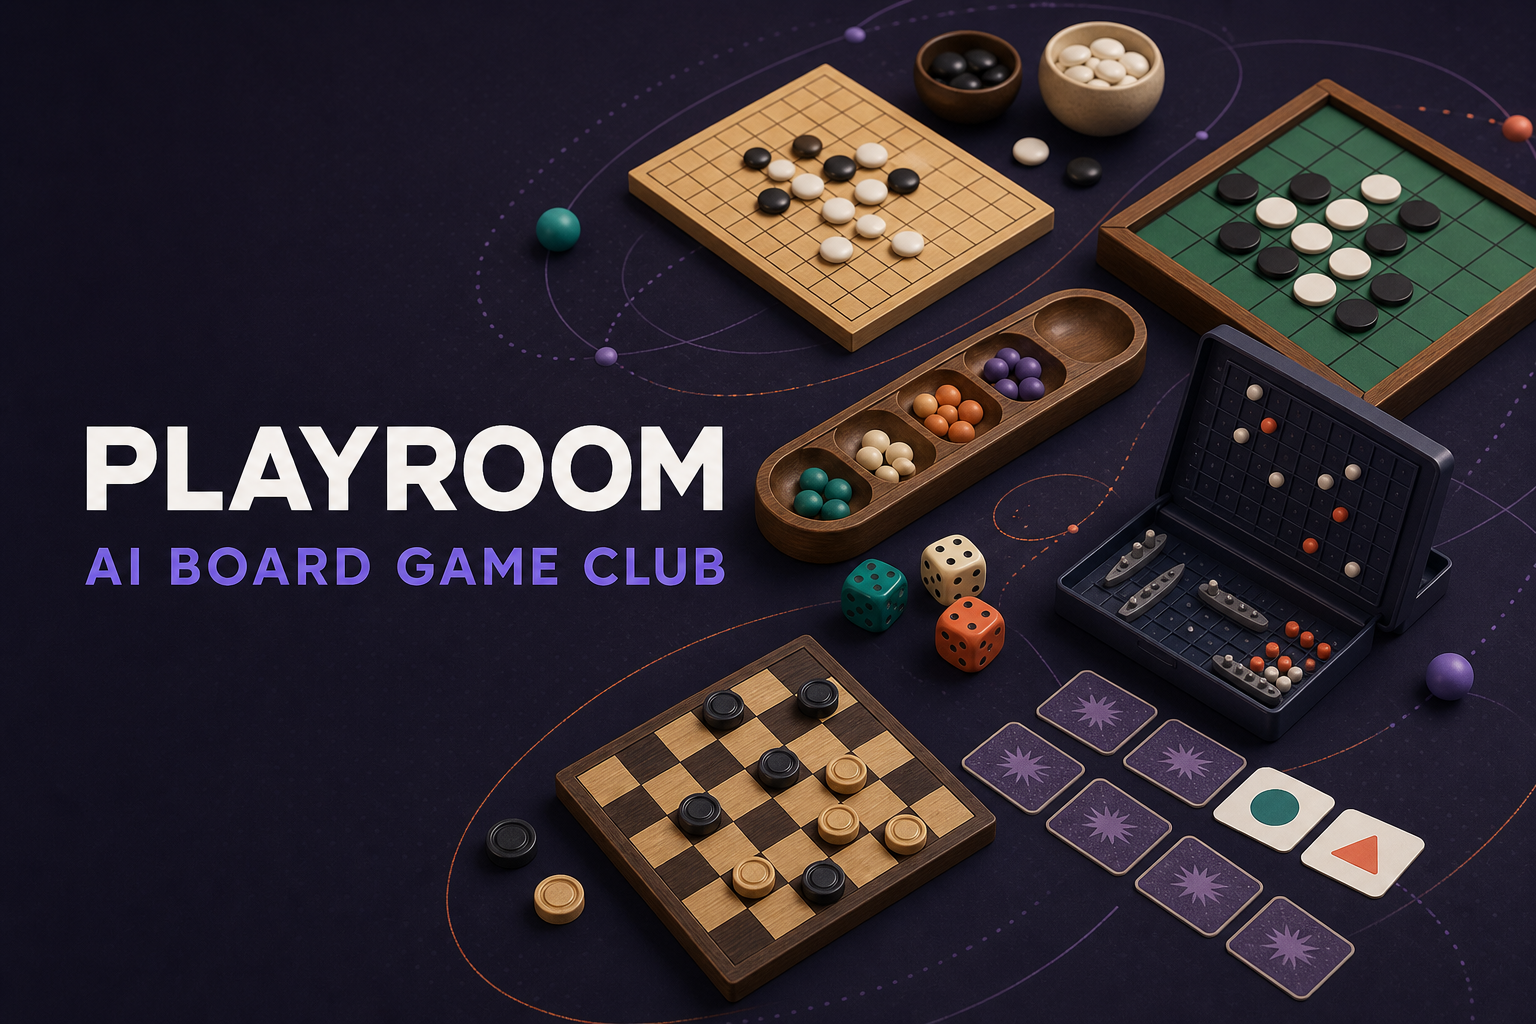
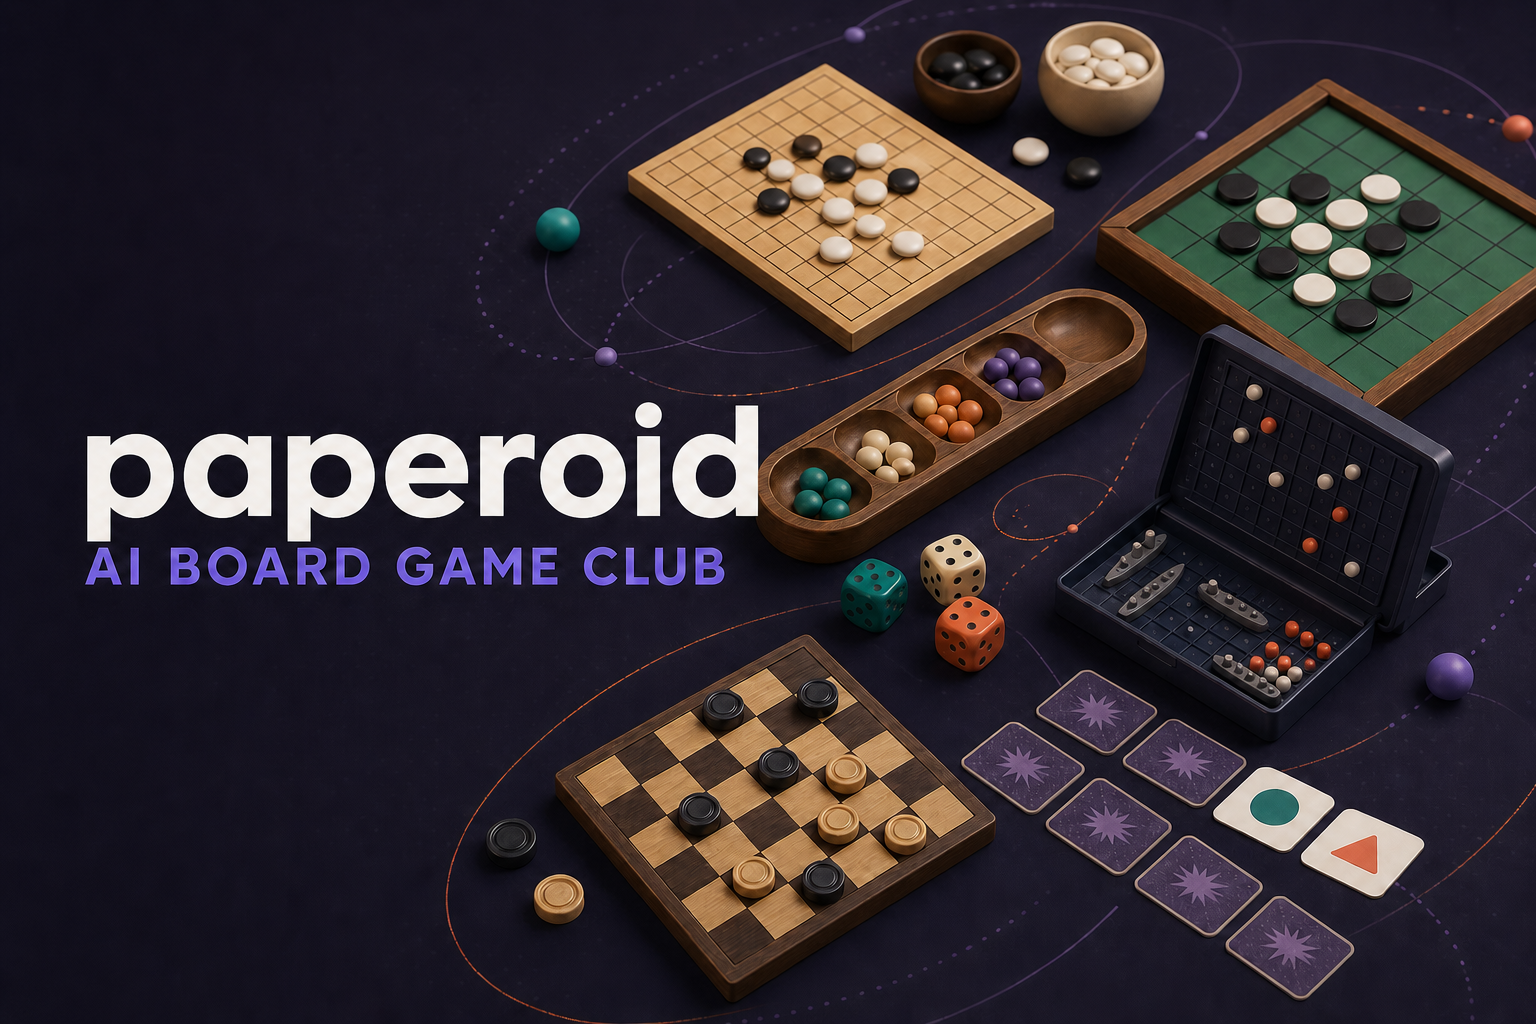
Rename PLAYROOM brand to paperoid

diff --git a/app/page.tsx b/app/page.tsx
@@ -1207,7 +1207,7 @@ function GameTopbar({
       <div className="game-title-lockup">
         <BrandMark />
         <div>
-          <span>PLAYROOM</span>
+          <span>paperoid</span>
           <strong>{title}</strong>
         </div>
       </div>
@@ -1637,8 +1637,15 @@ export default function Home() {
         return [];
       }
     };
-    setFavorites(readGameIds("playroom-favorites"));
-    setRecentIds(readGameIds("playroom-recent-games"));
+    const legacyPrefix = ["play", "room"].join("");
+    const favorites = readGameIds("paperoid-favorites");
+    const recent = readGameIds("paperoid-recent-games");
+    const migratedFavorites = favorites.length ? favorites : readGameIds(`${legacyPrefix}-favorites`);
+    const migratedRecent = recent.length ? recent : readGameIds(`${legacyPrefix}-recent-games`);
+    setFavorites(migratedFavorites);
+    setRecentIds(migratedRecent);
+    if (migratedFavorites.length) window.localStorage.setItem("paperoid-favorites", JSON.stringify(migratedFavorites));
+    if (migratedRecent.length) window.localStorage.setItem("paperoid-recent-games", JSON.stringify(migratedRecent));
   }, []);
 
   useEffect(() => {
@@ -1658,7 +1665,7 @@ export default function Home() {
   const launchGame = (id: GameId) => {
     setRecentIds((current) => {
       const next = [id, ...current.filter((item) => item !== id)].slice(0, 8);
-      window.localStorage.setItem("playroom-recent-games", JSON.stringify(next));
+      window.localStorage.setItem("paperoid-recent-games", JSON.stringify(next));
       return next;
     });
     setFinderOpen(false);
@@ -1670,7 +1677,7 @@ export default function Home() {
       const next = current.includes(id)
         ? current.filter((item) => item !== id)
         : [id, ...current];
-      window.localStorage.setItem("playroom-favorites", JSON.stringify(next));
+      window.localStorage.setItem("paperoid-favorites", JSON.stringify(next));
       return next;
     });
   };
@@ -1800,7 +1807,7 @@ export default function Home() {
       <header className="hub-header">
         <a className="brand" href="#" aria-label="플레이룸 홈">
           <BrandMark />
-          <span>PLAYROOM</span>
+          <span>paperoid</span>
         </a>
         <div className="header-note">
           <span className="status-dot" />
@@ -1895,7 +1902,7 @@ export default function Home() {
             <span className="plus-mark">+</span>
             <div>
               <strong>찾는 게임이 없나요?</strong>
-              <p>Playroom에 추가되면 좋을 게임을 추천해 주세요.</p>
+              <p>paperoid에 추가되면 좋을 게임을 추천해 주세요.</p>
             </div>
             <span className="suggestion-arrow" aria-hidden="true">↓</span>
           </a>
@@ -1996,7 +2003,7 @@ export default function Home() {
       <SuggestionBoard />
 
       <footer>
-        <div className="footer-brand"><BrandMark /> PLAYROOM</div>
+        <div className="footer-brand"><BrandMark /> paperoid</div>
         <p>오늘도 즐거운 한 판 되세요.</p>
         <span>AI BOARD GAME CLUB</span>
       </footer>

diff --git a/app/cashflow-escape-game.tsx b/app/cashflow-escape-game.tsx
@@ -44,7 +44,8 @@ type Game = {
 };
 type TurnReport = { playerId: number; playerName: string; lines: string[] };
 
-const SAVE_KEY = "playroom-cashflow-escape-save-v1";
+const SAVE_KEY = "paperoid-cashflow-escape-save-v1";
+const LEGACY_SAVE_KEY = `${["play", "room"].join("")}-cashflow-escape-save-v1`;
 const RULES = [
   ["게임 목표와 승리", "생활 순환로에서 자산소득을 총지출보다 크게 만드세요. 다음 자기 차례 시작에 성장 트랙으로 이동하며, 선택한 인생 목표를 사거나 시작 성장 수입보다 5,000만원 높은 목표 수입을 달성하면 승리합니다."],
   ["준비와 월급날", "시작 현금은 저축액과 첫 월 현금흐름의 합계입니다. 생활 순환로에서는 주사위 1개를 굴리며, 월급날 칸을 지나거나 도착할 때마다 월 현금흐름을 받거나 지불합니다."],
@@ -88,7 +89,7 @@ function buildTurnReport(previous: Game, next: Game, playerId: number): TurnRepo
 }
 
 function Topbar({ onExit, onSave }: { onExit: () => void; onSave?: () => void }) {
-  return <header className="cfe-topbar"><button onClick={onExit} aria-label="게임 목록으로">←</button><div><small>PLAYROOM · FINANCIAL SIMULATION</small><strong>현금흐름 탈출</strong></div><div>{onSave && <button onClick={onSave}>저장</button>}<button onClick={onExit}>나가기</button></div></header>;
+  return <header className="cfe-topbar"><button onClick={onExit} aria-label="게임 목록으로">←</button><div><small>paperoid · FINANCIAL SIMULATION</small><strong>현금흐름 탈출</strong></div><div>{onSave && <button onClick={onSave}>저장</button>}<button onClick={onExit}>나가기</button></div></header>;
 }
 
 function Guide({ mode, step, onStep, onClose }: { mode: "rules" | "tutorial"; step: number; onStep: (step: number) => void; onClose: () => void }) {
@@ -156,9 +157,13 @@ export function CashflowEscapeGame({ onExit }: { onExit: () => void }) {
   const store = (next: Game) => { setGame(next); window.localStorage.setItem(SAVE_KEY, JSON.stringify(next)); };
   const start = () => { setTurnReport(null); store(cfeCreateGame(playerCount, difficulty) as Game); };
   const load = () => {
-    const saved = window.localStorage.getItem(SAVE_KEY);
+    const saved = window.localStorage.getItem(SAVE_KEY) ?? window.localStorage.getItem(LEGACY_SAVE_KEY);
     if (!saved) return;
-    try { setTurnReport(null); setGame(cfeMigrateSavedGame(JSON.parse(saved)) as Game); } catch { window.localStorage.removeItem(SAVE_KEY); }
+    try {
+      const migrated = cfeMigrateSavedGame(JSON.parse(saved)) as Game;
+      window.localStorage.setItem(SAVE_KEY, JSON.stringify(migrated));
+      setTurnReport(null); setGame(migrated);
+    } catch { window.localStorage.removeItem(SAVE_KEY); }
   };
   const openGuide = (mode: "rules" | "tutorial") => { setGuide(mode); setGuideStep(0); };
 

diff --git a/app/seven-wonders-game.tsx b/app/seven-wonders-game.tsx
@@ -114,7 +114,7 @@ function GuideModal({
     <div className="sw-modal-backdrop" onClick={onClose}>
       <section className="sw-modal" role="dialog" aria-modal="true" aria-label={mode === "rules" ? "게임 방법" : "튜토리얼"} onClick={(event) => event.stopPropagation()}>
         <button className="sw-modal-close" onClick={onClose} aria-label="닫기">×</button>
-        <small>PLAYROOM GUIDE</small>
+        <small>paperoid GUIDE</small>
         <h2>{mode === "rules" ? "게임 방법" : "빠른 튜토리얼"}</h2>
         {mode === "rules" ? (
           <div className="sw-rule-list">
@@ -219,7 +219,7 @@ function ResultBoard({ game, onRestart, onExit }: { game: SwGame; onRestart: () 
     <main className="sw-shell sw-result-shell">
       <header className="sw-topbar">
         <button onClick={onExit} aria-label="게임 목록으로">←</button>
-        <div><small>PLAYROOM</small><strong>7원더스</strong></div>
+        <div><small>paperoid</small><strong>7원더스</strong></div>
         <button onClick={onExit}>나가기</button>
       </header>
       <section className="sw-result">
@@ -315,7 +315,7 @@ export function SevenWondersGame({ onExit }: { onExit: () => void }) {
       <main className="sw-shell">
         <header className="sw-topbar">
           <button onClick={onExit} aria-label="게임 목록으로">←</button>
-          <div><small>PLAYROOM</small><strong>7원더스</strong></div>
+          <div><small>paperoid</small><strong>7원더스</strong></div>
           <button onClick={onExit}>나가기</button>
         </header>
         <section className="sw-lobby">
@@ -373,7 +373,7 @@ export function SevenWondersGame({ onExit }: { onExit: () => void }) {
     <main className="sw-shell">
       <header className="sw-topbar sw-game-topbar">
         <button onClick={onExit} aria-label="게임 목록으로">←</button>
-        <div><small>PLAYROOM</small><strong>7원더스</strong></div>
+        <div><small>paperoid</small><strong>7원더스</strong></div>
         <div className="sw-age-display"><span>AGE</span><b>{["", "Ⅰ", "Ⅱ", "Ⅲ"][game.age]}</b><small>{game.pick}/6</small></div>
         <div className="sw-header-actions">
           <button onClick={() => openGuide("rules")}>게임 방법</button>

diff --git a/app/baccarat-game.tsx b/app/baccarat-game.tsx
@@ -44,7 +44,7 @@ const TUTORIAL = [
 ];
 
 function Topbar({ onExit }: { onExit: () => void }) {
-  return <header className="bc-topbar"><button onClick={onExit} aria-label="게임 목록으로">←</button><div><small>PLAYROOM · TABLE CLASSIC</small><strong>바카라</strong></div><button onClick={onExit}>나가기</button></header>;
+  return <header className="bc-topbar"><button onClick={onExit} aria-label="게임 목록으로">←</button><div><small>paperoid · TABLE CLASSIC</small><strong>바카라</strong></div><button onClick={onExit}>나가기</button></header>;
 }
 
 function PlayingCard({ card, hidden = false, delay = 0 }: { card?: Card; hidden?: boolean; delay?: number }) {
@@ -122,7 +122,7 @@ export function BaccaratGame({ onExit }: { onExit: () => void }) {
   const bankerNote = last?.natural ? "내추럴 — 제3카드 없이 판정" : last?.bankerDrew ? "뱅커 제3카드 표에 따라 받음" : last ? "뱅커 제3카드 표에 따라 스탠드" : undefined;
   return <main className="bc-shell"><Topbar onExit={onExit} /><section className="bc-status"><div><small>ROUND</small><strong>{game.round}<i>/</i>{game.roundLimit}</strong></div><div className="bc-bankroll"><small>MY VIRTUAL CHIPS</small><strong>{game.chips.toLocaleString()}</strong></div><div className="bc-status-actions"><button onClick={() => setGuide("rules")}>ⓘ 규칙</button><button onClick={() => setGame(baccaratFinishGame(game) as BaccaratGameState)}>종료</button></div></section>
     <Roadmap history={game.history} />
-    <section className={`bc-table ${game.phase}`}><div className="bc-felt-label">PLAYROOM BACCARAT · AI DEALER</div>
+    <section className={`bc-table ${game.phase}`}><div className="bc-felt-label">paperoid BACCARAT · AI DEALER</div>
       <Hand label="뱅커" side="banker" cards={last?.bankerCards || []} total={fullyRevealed ? last?.bankerTotal : undefined} revealCount={revealCount} offset={last?.playerCards.length || 0} note={bankerNote} />
       <div className="bc-versus"><span>9</span><i>VS</i><span>9</span></div>
       <Hand label="플레이어" side="player" cards={last?.playerCards || []} total={fullyRevealed ? last?.playerTotal : undefined} revealCount={revealCount} offset={0} note={playerNote} />

diff --git a/app/confrontation-game.tsx b/app/confrontation-game.tsx
@@ -388,7 +388,7 @@ function ConfrontationTopbar({ onExit }: { onExit: () => void }) {
       <button className="back-button" onClick={onExit} aria-label="게임 목록으로">←</button>
       <div className="game-title-lockup">
         <span className="confront-mini-sigil" aria-hidden="true">✦</span>
-        <div><span>PLAYROOM</span><strong>빛과 그림자의 대결</strong></div>
+        <div><span>paperoid</span><strong>빛과 그림자의 대결</strong></div>
       </div>
       <button className="exit-button" onClick={onExit}>나가기</button>
     </header>
@@ -486,7 +486,7 @@ export function ConfrontationGame({ onExit }: { onExit: () => void }) {
               <div className="confront-emblem" aria-hidden="true"><i>✦</i><b>VS</b><i>◆</i></div>
               <span>ASYMMETRIC HIDDEN STRATEGY</span>
               <h2>빛과 그림자의 대결</h2>
-              <p>크니치아의 숨은 기물 대결 구조를 바탕으로, 독자적인 세계와 능력으로 다시 만든 Playroom 버전입니다.</p>
+              <p>크니치아의 숨은 기물 대결 구조를 바탕으로, 독자적인 세계와 능력으로 다시 만든 paperoid 버전입니다.</p>
               <div className="confront-setup-grid">
                 <fieldset>
                   <legend>나의 진영</legend>

diff --git a/app/layout.tsx b/app/layout.tsx
@@ -29,21 +29,21 @@ const geistMono = Geist_Mono({
 
 export const metadata: Metadata = {
   metadataBase: new URL("https://games.itnadcom.chatgpt.site"),
-  title: "PLAYROOM — AI 보드게임 아지트",
+  title: "paperoid — AI 보드게임 아지트",
   description: "오목, 장기, 시계탑, 7원더스, 카멜 업, 티츄, 바카라, 스코틀랜드 야드, 러브레터, 미니빌 등 서른한 가지 게임을 AI와 즐기는 온라인 보드게임 플레이룸",
   icons: {
     icon: "/favicon.svg",
     shortcut: "/favicon.svg",
   },
   openGraph: {
-    title: "PLAYROOM — AI 보드게임 아지트",
+    title: "paperoid — AI 보드게임 아지트",
     description: "서른한 가지 보드게임을 AI와 바로 즐겨보세요.",
     type: "website",
-    images: [{ url: "/og.png", width: 1536, height: 1024, alt: "PLAYROOM AI Board Game Club" }],
+    images: [{ url: "/og.png", width: 1536, height: 1024, alt: "paperoid AI Board Game Club" }],
   },
   twitter: {
     card: "summary_large_image",
-    title: "PLAYROOM — AI 보드게임 아지트",
+    title: "paperoid — AI 보드게임 아지트",
     description: "서른한 가지 보드게임을 AI와 바로 즐겨보세요.",
     images: ["/og.png"],
   },

diff --git a/app/clocktowers-game.tsx b/app/clocktowers-game.tsx
@@ -436,7 +436,7 @@ export function ClocktowersGame({ onExit }: ExitProps) {
       <main className="ct-shell setup">
         <header className="ct-topbar">
           <button onClick={onExit} aria-label="게임 목록으로 돌아가기">←</button>
-          <div><span>PLAYROOM</span><strong>시계탑</strong></div>
+          <div><span>paperoid</span><strong>시계탑</strong></div>
           <button onClick={() => setRulesOpen(true)}>게임 방법</button>
         </header>
         <section className="ct-setup-card">
@@ -468,7 +468,7 @@ export function ClocktowersGame({ onExit }: ExitProps) {
     <main className="ct-shell">
       <header className="ct-topbar">
         <button onClick={onExit} aria-label="게임 목록으로 돌아가기">←</button>
-        <div><span>PLAYROOM</span><strong>시계탑</strong></div>
+        <div><span>paperoid</span><strong>시계탑</strong></div>
         <button onClick={() => setRulesOpen(true)}>게임 방법</button>
       </header>
 

diff --git a/app/tichu-game.tsx b/app/tichu-game.tsx
@@ -61,7 +61,7 @@ const TUTORIAL = [
 ];
 
 function Topbar({ onExit }: { onExit: () => void }) {
-  return <header className="ti-topbar"><button onClick={onExit} aria-label="게임 목록으로">←</button><div><small>PLAYROOM · PARTNERSHIP CARD GAME</small><strong>티츄</strong></div><button onClick={onExit}>나가기</button></header>;
+  return <header className="ti-topbar"><button onClick={onExit} aria-label="게임 목록으로">←</button><div><small>paperoid · PARTNERSHIP CARD GAME</small><strong>티츄</strong></div><button onClick={onExit}>나가기</button></header>;
 }
 
 function CardFace({ card, selected = false, compact = false, onClick }: { card: Card; selected?: boolean; compact?: boolean; onClick?: () => void }) {

diff --git a/app/camel-up-game.tsx b/app/camel-up-game.tsx
@@ -158,7 +158,7 @@ function Result({ game, onRestart, onExit }: { game: CuGame; onRestart: () => vo
 }
 
 function Topbar({ onExit }: { onExit: () => void }) {
-  return <header className="cu-topbar"><button onClick={onExit} aria-label="게임 목록으로">←</button><div><small>PLAYROOM</small><strong>카멜 업</strong></div><button onClick={onExit}>나가기</button></header>;
+  return <header className="cu-topbar"><button onClick={onExit} aria-label="게임 목록으로">←</button><div><small>paperoid</small><strong>카멜 업</strong></div><button onClick={onExit}>나가기</button></header>;
 }
 
 export function CamelUpGame({ onExit }: { onExit: () => void }) {

diff --git a/app/game-objective-guide.tsx b/app/game-objective-guide.tsx
@@ -38,7 +38,7 @@ export function GameObjectiveGuide({ gameId }: { gameId: string }) {
             <button className="game-objective-close" onClick={() => setOpen(false)} aria-label="게임 설명 닫기">×</button>
             <header>
               <i aria-hidden="true">{guide.icon}</i>
-              <div><span>PLAYROOM GAME GUIDE</span><h2 id="game-objective-title">{guide.title}</h2></div>
+              <div><span>paperoid GAME GUIDE</span><h2 id="game-objective-title">{guide.title}</h2></div>
             </header>
             <p className="game-objective-summary">{guide.summary}</p>
             <div className="game-objective-cards">

diff --git a/app/love-letter-game.tsx b/app/love-letter-game.tsx
@@ -425,7 +425,7 @@ function LoveLetterTopbar({ onExit }: { onExit: () => void }) {
   return (
     <header className="game-topbar love-topbar">
       <button className="back-button" onClick={onExit} aria-label="게임 목록으로">←</button>
-      <div className="game-title-lockup"><span className="love-mini-mark">♥</span><div><span>PLAYROOM</span><strong>러브레터</strong></div></div>
+      <div className="game-title-lockup"><span className="love-mini-mark">♥</span><div><span>paperoid</span><strong>러브레터</strong></div></div>
       <button className="exit-button" onClick={onExit}>나가기</button>
     </header>
   );

diff --git a/app/miniville-game.tsx b/app/miniville-game.tsx
@@ -266,7 +266,7 @@ function MinivilleTopbar({ onExit }: { onExit: () => void }) {
   return (
     <header className="game-topbar mini-topbar">
       <button className="back-button" onClick={onExit} aria-label="게임 목록으로">←</button>
-      <div className="game-title-lockup"><span className="mini-mini-mark">▦</span><div><span>PLAYROOM</span><strong>미니빌</strong></div></div>
+      <div className="game-title-lockup"><span className="mini-mini-mark">▦</span><div><span>paperoid</span><strong>미니빌</strong></div></div>
       <button className="exit-button" onClick={onExit}>나가기</button>
     </header>
   );
